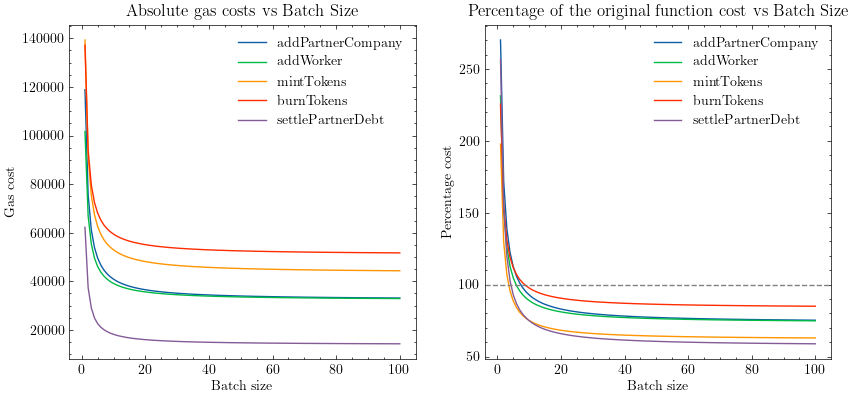
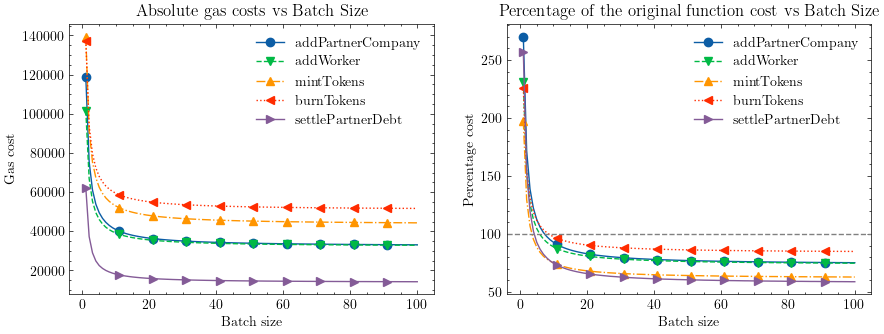
Last stable version before merging ERC2771Context

Changed region(s): [[0.0, 0.0, 1.0, 0.988], [0.9754, 0.3892, 1.0, 0.5988], [0.9754, 0.1796, 1.0, 0.3593]]

diff --git a/test/ICSOC/dispatcher.test.ts b/test/ICSOC/dispatcher.test.ts
@@ -1,0 +1,44 @@
+const { expect } = require("chai");
+
+
+describe.only("Batcher Contract", function() {
+  it("Can verify and dispatch", async function() {
+    const Batcher = await ethers.getContractFactory("batcher");
+    const batcher = await Batcher.deploy();
+    await batcher.deployed();
+
+    const TestContract = await ethers.getContractFactory("TestContract");
+    const testContract = await TestContract.deploy(batcher.address);
+
+    await testContract.deployed();
+
+    // signing some data for the increment batch
+    const signer = ethers.provider.getSigner();
+    const tx = await testContract.populateTransaction.incrementTest(1);
+
+    // const message = ethers.utils.arrayify(ethers.utils.id('incrementTest(uint256)1'));
+    const message = ethers.utils.arrayify(ethers.utils.solidityKeccak256(
+      ["address", "bytes"],
+      [testContract.address, tx.data]
+    ));
+
+    const signature = await signer.signMessage(message);
+    
+    // Preparing arrays to send in the batch
+    let addresses = [testContract.address];
+    console.log("Address in JS:", tx.from);
+
+    let args = [tx.data];
+    let sigs = [signature];
+
+    // dispatch calls
+    await batcher.dispatch(addresses, args, sigs);
+
+    // get the value and log to the console
+    const value = await testContract.viewTest();
+    console.log("Incremented Value: ", value.toString());
+    
+    // Check the result
+    expect(await testContract.viewTest()).to.equal("1");
+  });
+});

diff --git a/test/ICSOC/Accountable/accountable.test.ts b/test/ICSOC/Accountable/accountable.test.ts
@@ -11,7 +11,7 @@ const printTxCost = async (tx, label) => {
 const commitTimestamp = Math.floor(Date.now() / 1000) + 86400; // current time + 1 day in seconds
 
 
-describe.only("Batcher interaction with and Test contracts", function () {
+describe("Batcher interaction with and Test contracts", function () {
     
     let Batcher: any, BatcherClassic: any, TestContract;
     let owner: any, user: any, user2: any;

diff --git a/test/ICSOC/Accountable/accountable2.test.ts b/test/ICSOC/Accountable/accountable2.test.ts
@@ -78,7 +78,6 @@ describe("ThanksPay Test 2", function () {
         [owner, addr1, addr2, addr3, addr4, addr5, ...addrsRand] = await ethers.getSigners();
 
         if (!hasRun) {
-
             const randomSigners = async (amount: number): Promise<Signer[]> => {
                 const signers: Signer[] = []
                 for (let i = 0; i < amount; i++) {

diff --git a/UMLs/plot.py b/UMLs/plot.py
@@ -29,17 +29,24 @@ for function in size_0_prices.index:
 # Create the plots using matplotlib
 fig, (ax1, ax2) = plt.subplots(1, 2, figsize=(12, 6))
 
+# Create a list of line styles
+line_styles = ['-', '--', '-.', ':']
+# Create a list of marker styles
+marker_styles = ['o', 'v', '^', '<', '>', 's', 'p', '*', 'h', '+', 'x', 'D']
+
 # Price of Different Functions vs Size (skipping baseline)
-for function in df.columns[1:]:
-    ax1.plot(df.loc[df['size'] != 0, 'size'], df.loc[df['size'] != 0, function], label=function)
+for i, function in enumerate(df.columns[1:]):
+    ax1.plot(df.loc[df['size'] != 0, 'size'], df.loc[df['size'] != 0, function], label=function, 
+            linestyle=line_styles[i % len(line_styles)], marker=marker_styles[i % len(marker_styles)], markevery=10)
 ax1.set_title('Absolute gas costs vs Batch Size')
 ax1.set_xlabel('Batch size')
 ax1.set_ylabel('Gas cost')
 ax1.legend()
 
 # Saving Ratio Percentage of Different Functions vs Size
-for function in df_saving_ratio.columns[1:]:
-    ax2.plot(df_saving_ratio.loc[df_saving_ratio['size'] != 0, 'size'], df_saving_ratio.loc[df_saving_ratio['size'] != 0, function], label=function)
+for i, function in enumerate(df_saving_ratio.columns[1:]):
+    ax2.plot(df_saving_ratio.loc[df_saving_ratio['size'] != 0, 'size'], df_saving_ratio.loc[df_saving_ratio['size'] != 0, function], 
+            label=function, linestyle=line_styles[i % len(line_styles)], marker=marker_styles[i % len(marker_styles)], markevery=10)
 
 # Add a horizontal line representing the baseline at 100% in the relative gas cost chart
 ax2.axhline(y=100, color='gray', linestyle='--', linewidth=1)

diff --git a/UMLs/full_latency.py b/UMLs/full_latency.py
@@ -104,7 +104,7 @@ secax = ax.secondary_yaxis(
 )
 
 secax.tick_params(axis='y', labelcolor="green")
-secax.set_ylabel("Latency (days)", color="green")
+secax.set_ylabel("Latency (days)", fontsize = 20, color="green")
 secax.yaxis.label.set_color("green")
 
 # Customize secondary y-axis tick labels for actual days
@@ -121,9 +121,12 @@ def custom_formatter(val, pos=None):
 secax.yaxis.set_major_formatter(ticker.FuncFormatter(custom_formatter))
 
 # Labels and title
-ax.set_xlabel("Batch Size")
-ax.set_title("Latency Comparison")
+ax.set_xlabel("Batch Size",fontsize=20)
+ax.set_ylabel("Latency (seconds)",fontsize=20, color="blue")
+ax.set_title("Latency Comparison",fontsize=25)
 
-plt.legend(facecolor="white", edgecolor="black", framealpha=1, fancybox=True)
+plt.legend(facecolor="white", edgecolor="black", framealpha=1, fancybox=True, fontsize=15,bbox_to_anchor=(1.05, 1), loc='upper left')
+
+# plt.legend(facecolor="white", edgecolor="black", framealpha=1, fancybox=True)
 
 plt.show()
